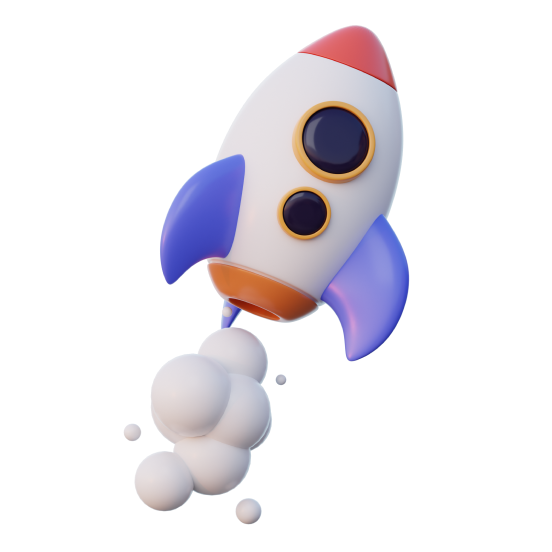
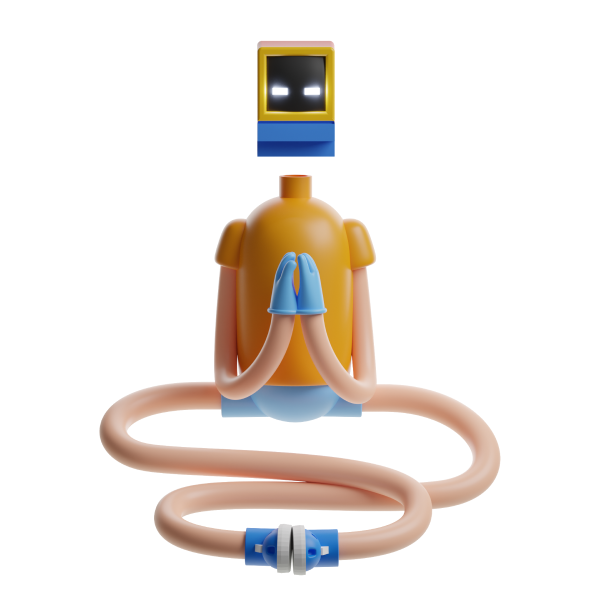
:lipstick:Design:404 페이지 수정된 디자인 적용

diff --git a/src/pages/NotFound.jsx b/src/pages/NotFound.jsx
@@ -1,9 +1,8 @@
 import styled from "styled-components"
-import { grey1, grey3 } from "../constants/color";
+import { grey1, grey3, grey6, grey8 } from "../constants/color";
 import errorImg from '../assets/images/404.png'
 
 const Section = styled.section`
-  background: ${grey3};
   display: flex;
   justify-content: center;
   /* align-items: center; */
@@ -22,19 +21,24 @@ const Box = styled.div`
   padding: 40px 32px 32px;
   width: 100%;
   border-radius: 16px;
-  box-shadow: 0px 1px 20px rgba(0, 0, 0, 0.16);
-  background-color: ${grey1};
   text-align: center;
 `;
 
 const Text = styled.p`
-  font-size: 28px;
+  font-size: 36px;
+  margin-top: 20px;
+  color: ${grey8};
+  font-weight: 700;
+`;
+
+const Text2 = styled.p`
+  font-size: 24px;
+  margin-top: 16px;
+  color: ${grey6};
 `;
 
 const Img = styled.img`
-  width: 350px;
-  margin-top: 60px;
-  transform: rotate(30deg);
+  width: 300px;
 `;
 
 export default function NotFound() {
@@ -43,10 +47,11 @@ export default function NotFound() {
         <h1 className='ir'>에러페이지</h1>
         <WrapBox>
           <Box>
-            <Text>
-                ⚠ 죄송합니다. 찾을 수 없는 페이지 입니다.
-            </Text>
             <Img src={errorImg} alt="" />
+            <Text>404 NOT FOUND</Text>
+            <Text2>
+                죄송합니다. 찾을 수 없는 페이지 입니다.
+            </Text2>
           </Box>
         </WrapBox>
     </Section>
